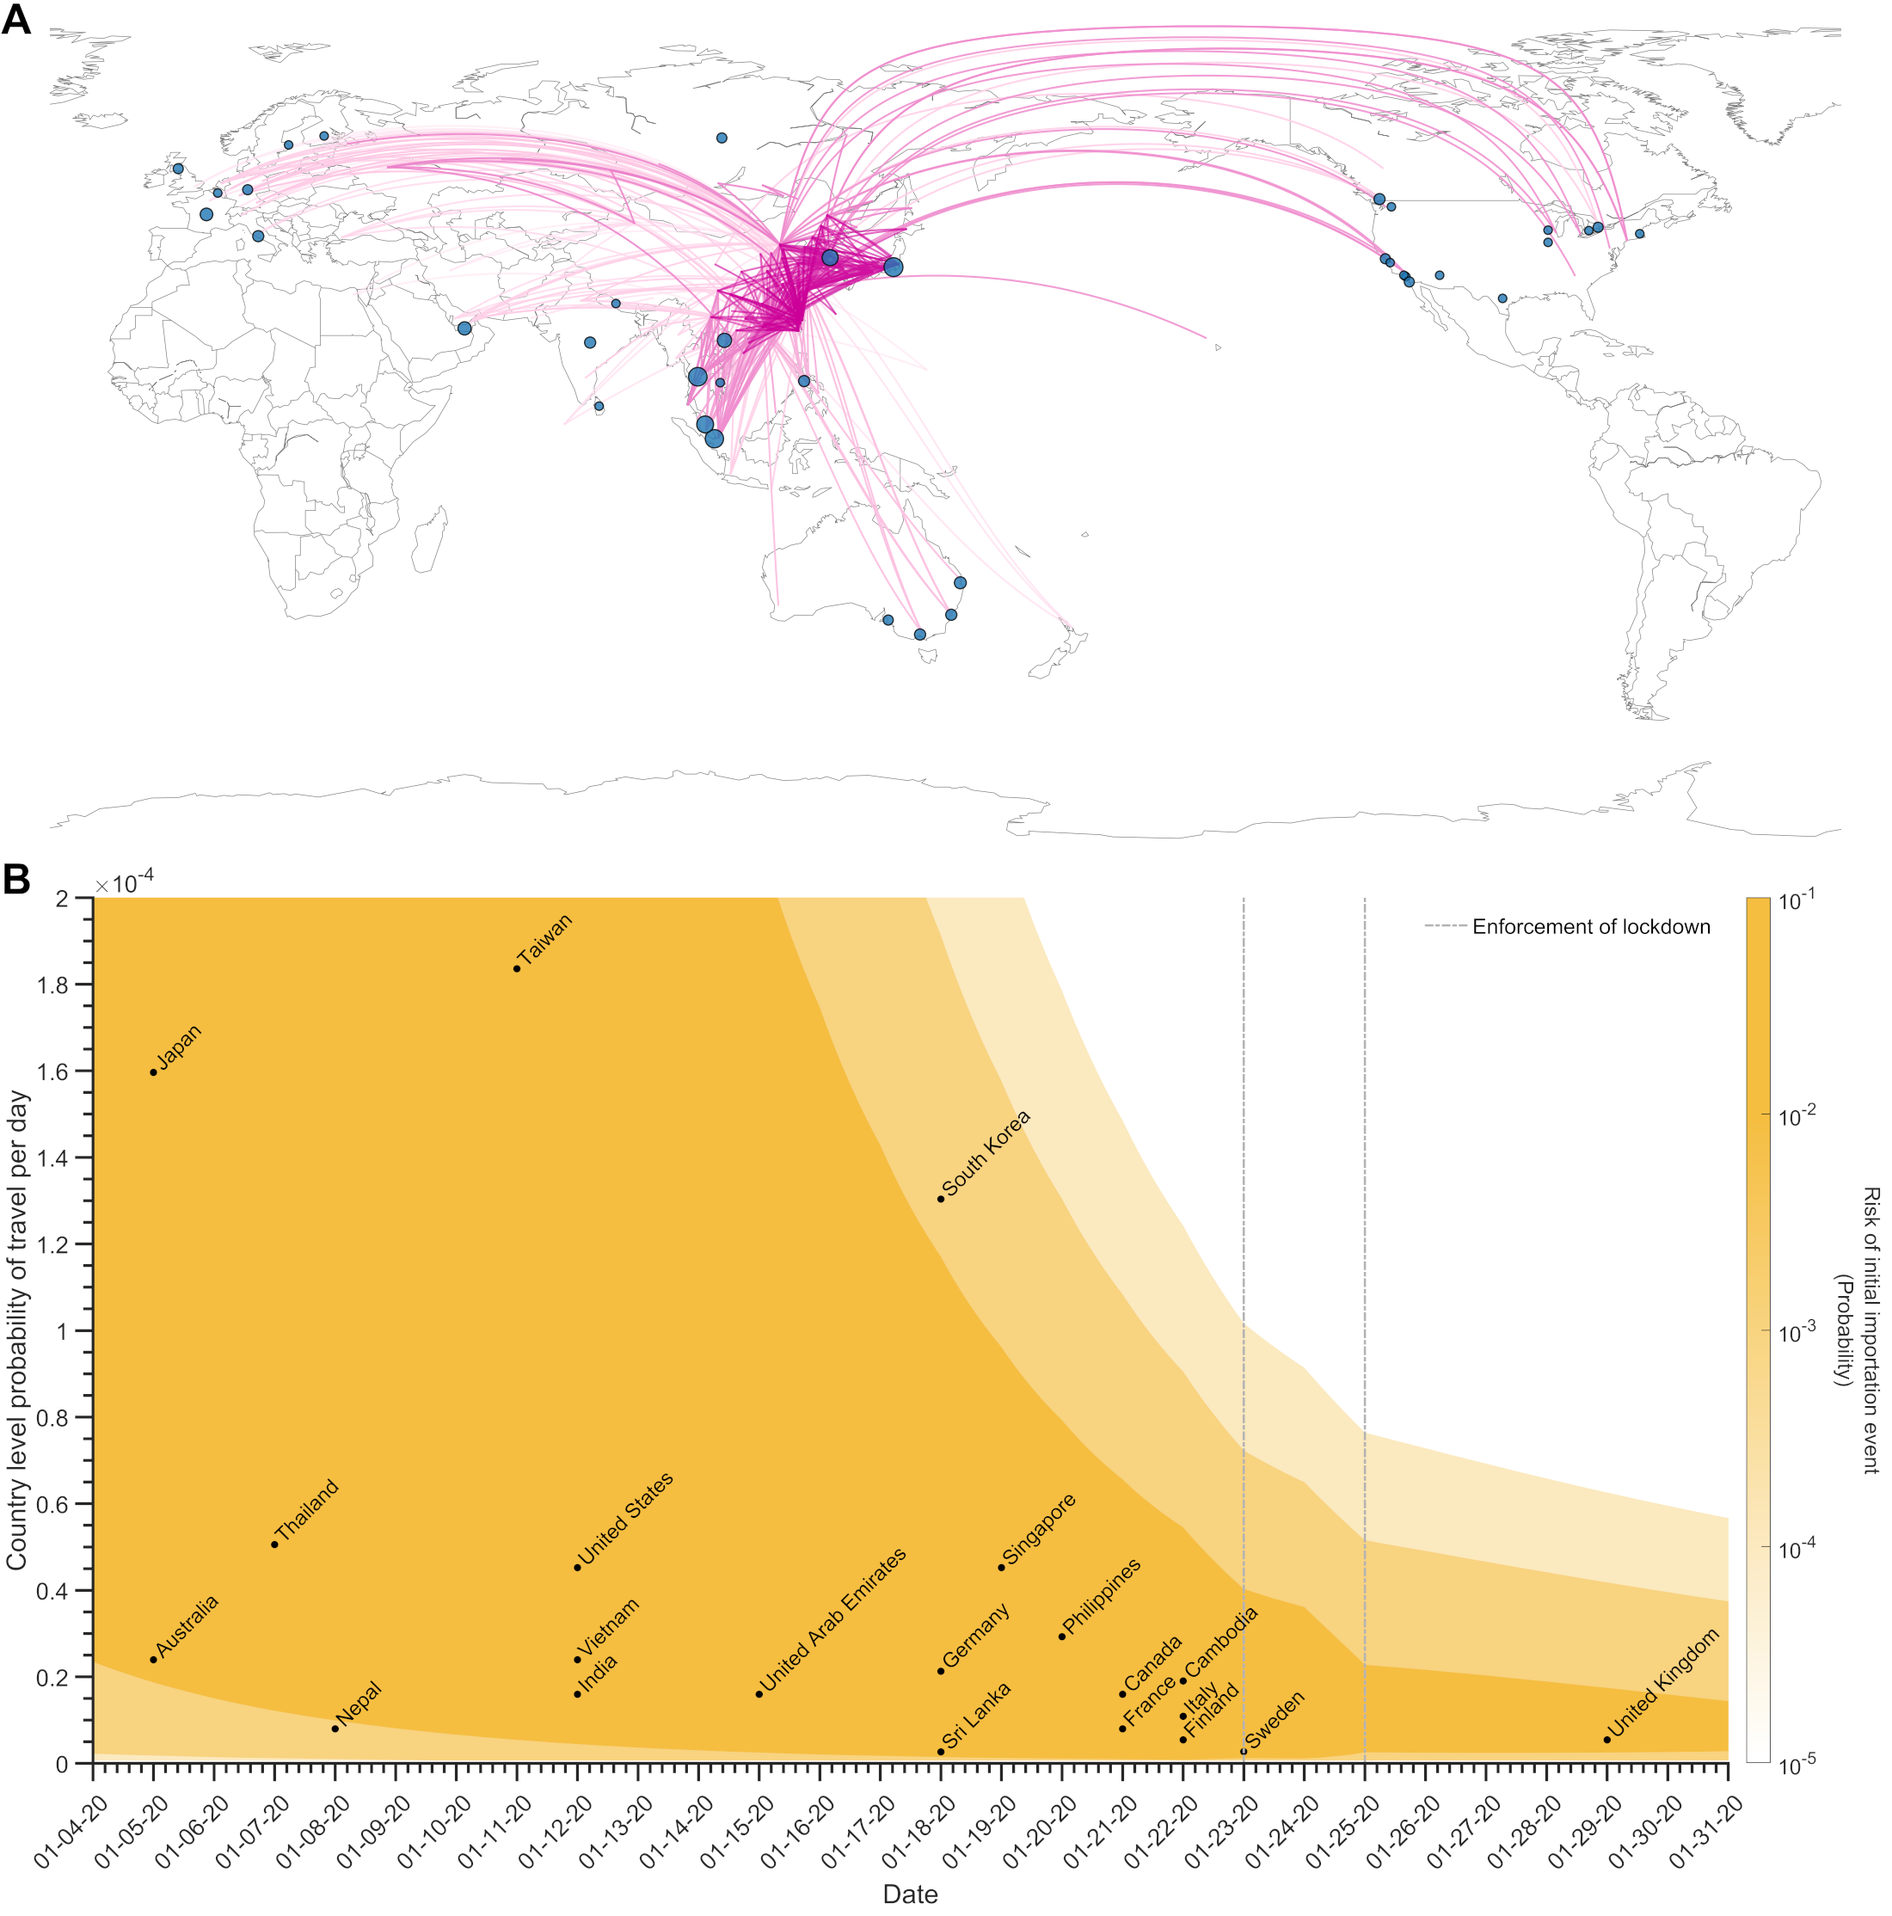
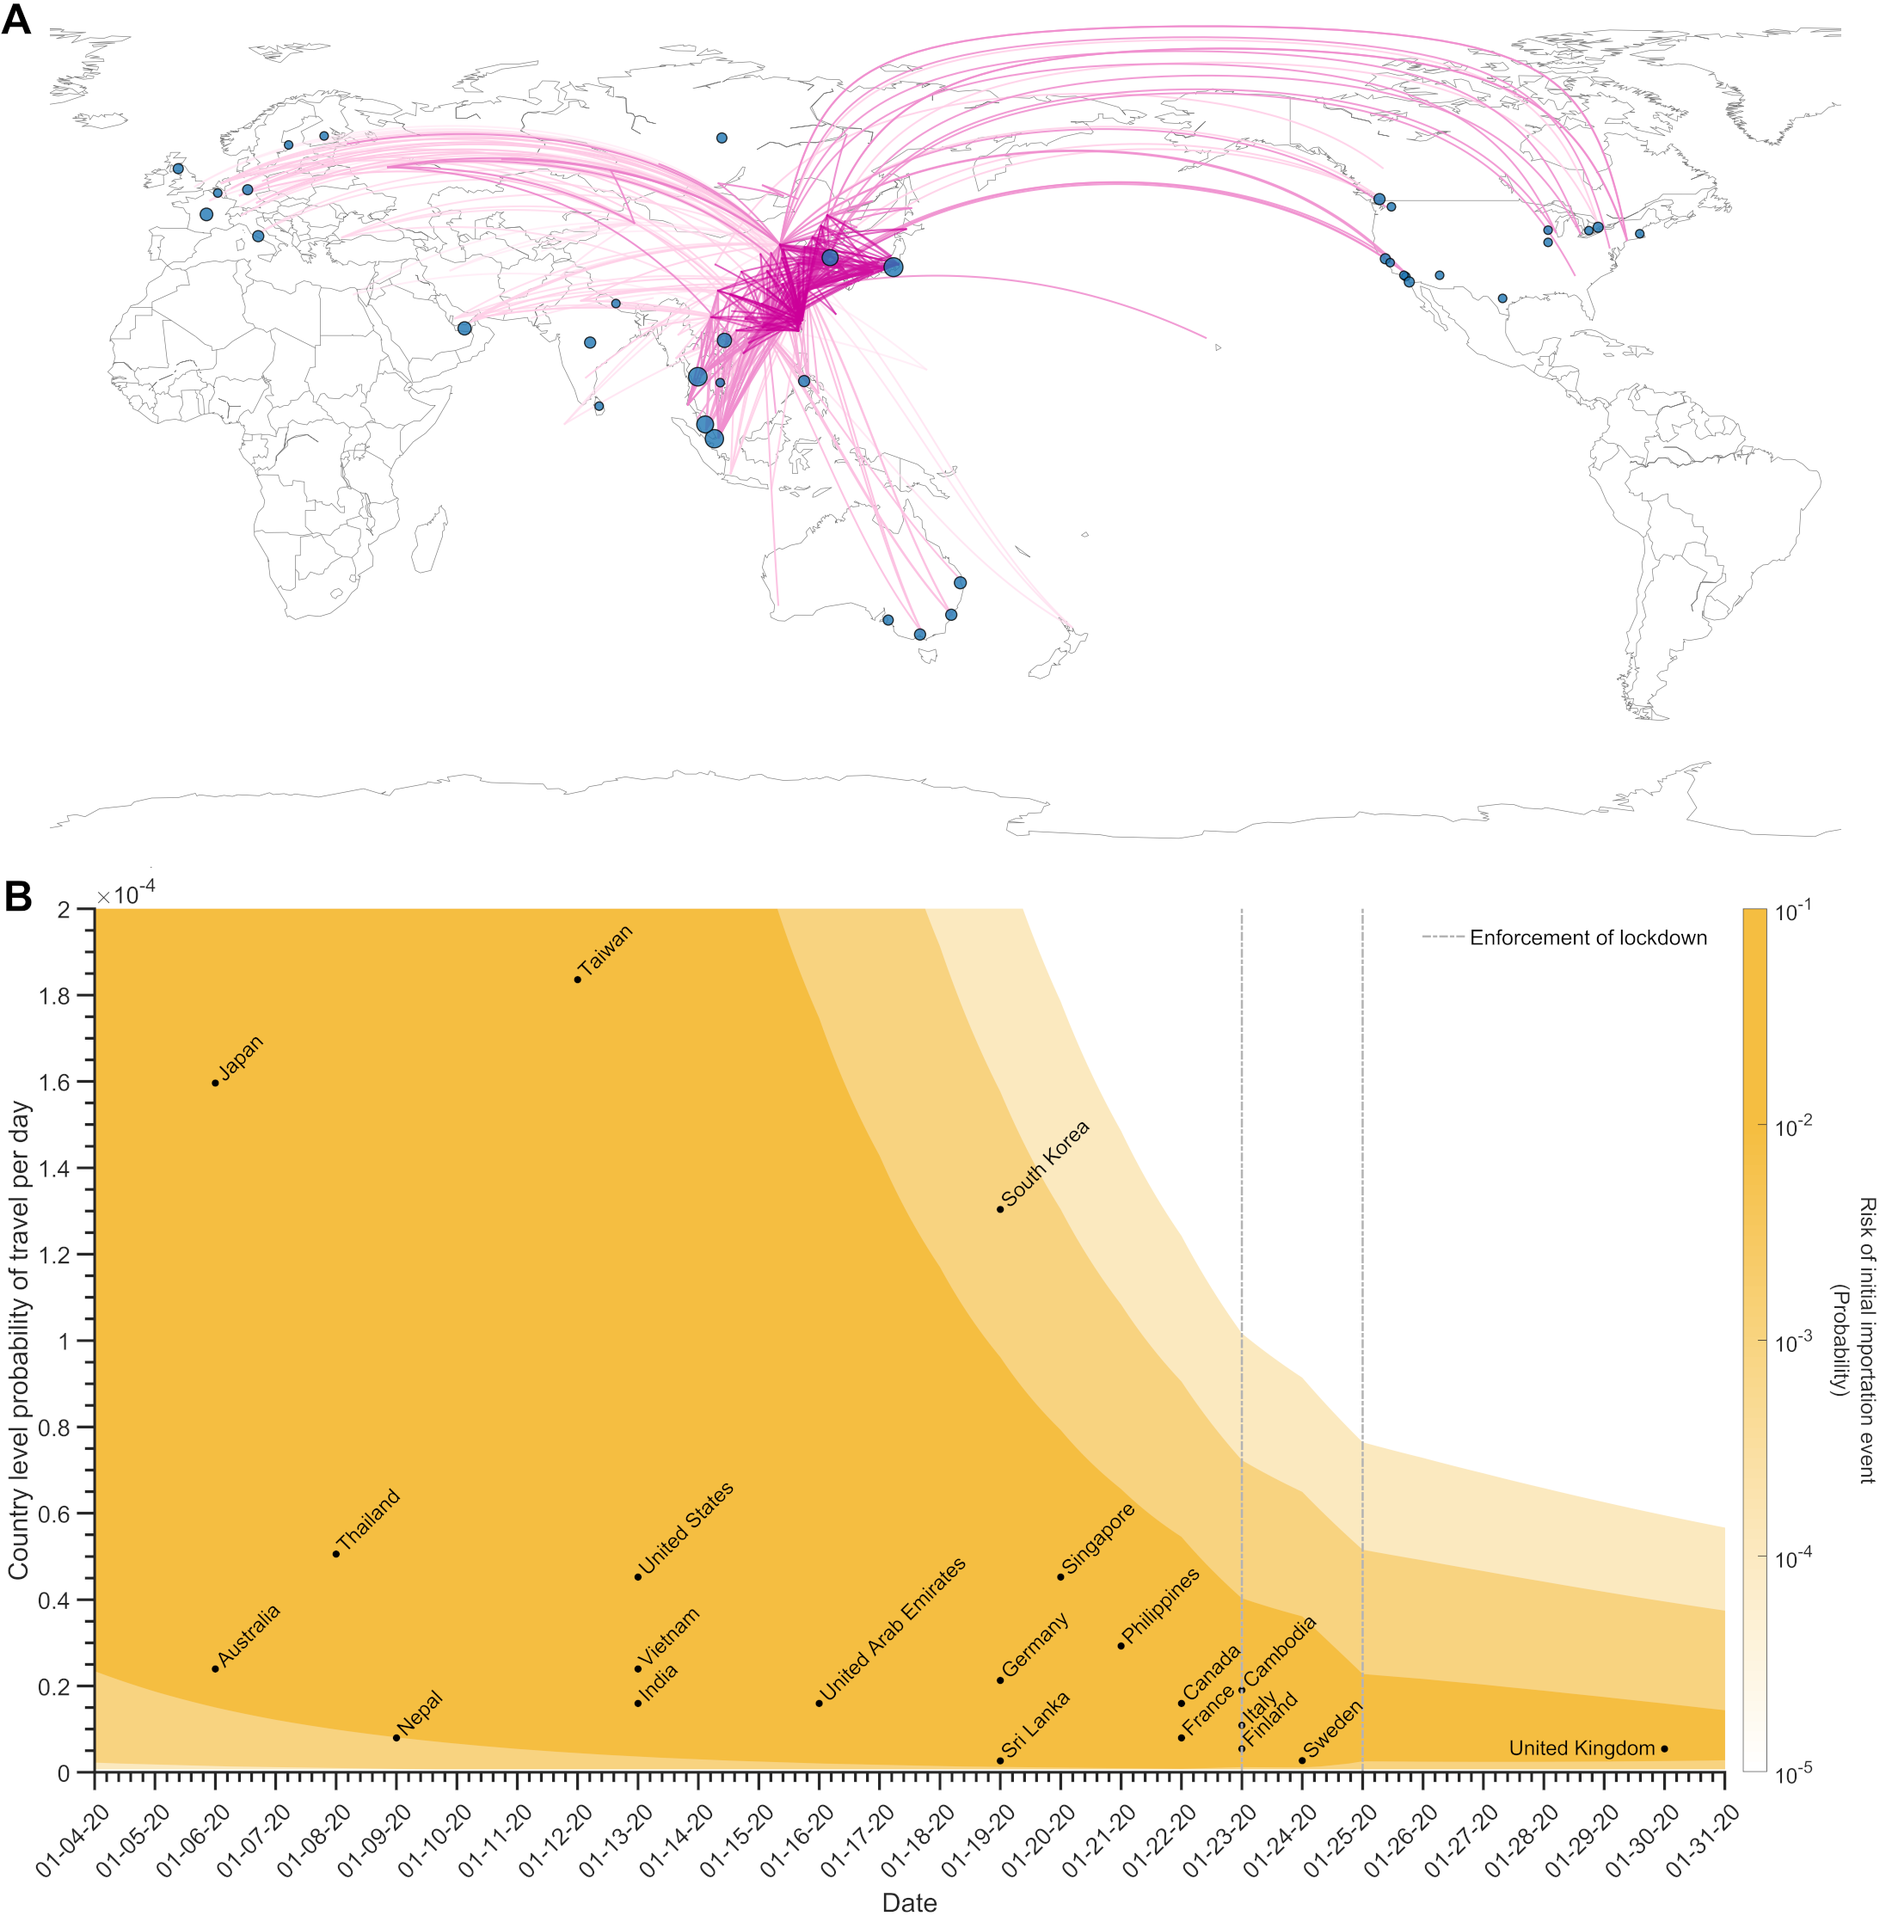
update

diff --git a/Figure2.m b/Figure2.m
@@ -45,14 +45,14 @@ Cor=zeros(9,2);
 for ii=1:length(FC)
     if(FC{ii,2}>=INDX)
         tf = strcmp({FC{ii,1}},{Flight_NW{:,1}});
-        scatter(FC{ii,2}-1,Flight_NW{tf,2}*ptravel,25,'k','filled'); hold on;
-        text((FC{ii,2}-1)+0.06,(Flight_NW{tf,2}*ptravel)+0.0000015,15,{FC{ii,1}},'Fontsize',14,'Rotation',45);
-        Cor(ii,:)=[Flight_NW{tf,2} (FC{ii,2}-1)];
+        scatter(FC{ii,2},Flight_NW{tf,2}*ptravel,25,'k','filled'); hold on;
+        text((FC{ii,2})+0.06,(Flight_NW{tf,2}*ptravel)+0.0000015,15,{FC{ii,1}},'Fontsize',14,'Rotation',45);
+        Cor(ii,:)=[Flight_NW{tf,2} (FC{ii,2})];
     else
         tf = strcmp({FC{ii,1}},{FlightAll{:,1}});
-        scatter(FC{ii,2}-1,FlightAll{tf,2}*ptravel,25,'k','filled'); hold on;
-        text((FC{ii,2}-1)+0.06,(FlightAll{tf,2}*ptravel)+0.0000015,15,{FC{ii,1}},'Fontsize',14,'Rotation',45);
-        Cor(ii,:)=[FlightAll{tf,2} (FC{ii,2}-1)];
+        scatter(FC{ii,2},FlightAll{tf,2}*ptravel,25,'k','filled'); hold on;
+        text((FC{ii,2})+0.06,(FlightAll{tf,2}*ptravel)+0.0000015,15,{FC{ii,1}},'Fontsize',14,'Rotation',45);
+        Cor(ii,:)=[FlightAll{tf,2} (FC{ii,2})];
     end
 end
 pp=plot([INDX INDX],[0 2*10^(-4)],'-.','color',[0.7 0.7 0.7],'LineWidth',1.5);

diff --git a/FigureS4.m b/FigureS4.m
@@ -45,14 +45,14 @@ Cor=zeros(9,2);
 for ii=1:length(FC)
     if(FC{ii,2}>=INDX)
         tf = strcmp({FC{ii,1}},{Flight_NW{:,1}});
-        scatter(FC{ii,2}-1,Flight_NW{tf,2}*ptravel,25,'k','filled'); hold on;
-        text((FC{ii,2}-1)+0.06,(Flight_NW{tf,2}*ptravel)+0.0000015,15,{FC{ii,1}},'Fontsize',14,'Rotation',45);
-        Cor(ii,:)=[Flight_NW{tf,2} (FC{ii,2}-1)];
+        scatter(FC{ii,2},Flight_NW{tf,2}*ptravel,25,'k','filled'); hold on;
+        text((FC{ii,2})+0.06,(Flight_NW{tf,2}*ptravel)+0.0000015,15,{FC{ii,1}},'Fontsize',14,'Rotation',45);
+        Cor(ii,:)=[Flight_NW{tf,2} (FC{ii,2})];
     else
         tf = strcmp({FC{ii,1}},{FlightAll{:,1}});
-        scatter(FC{ii,2}-1,FlightAll{tf,2}*ptravel,25,'k','filled'); hold on;
-        text((FC{ii,2}-1)+0.06,(FlightAll{tf,2}*ptravel)+0.0000015,15,{FC{ii,1}},'Fontsize',14,'Rotation',45);
-        Cor(ii,:)=[FlightAll{tf,2} (FC{ii,2}-1)];
+        scatter(FC{ii,2},FlightAll{tf,2}*ptravel,25,'k','filled'); hold on;
+        text((FC{ii,2})+0.06,(FlightAll{tf,2}*ptravel)+0.0000015,15,{FC{ii,1}},'Fontsize',14,'Rotation',45);
+        Cor(ii,:)=[FlightAll{tf,2} (FC{ii,2})];
     end
 end
 pp=plot([INDX INDX],[0 2*10^(-4)],'-.','color',[0.7 0.7 0.7],'LineWidth',1.5);

diff --git a/OutputProb.m b/OutputProb.m
@@ -87,7 +87,7 @@ VU=sqrt([(minE+1):maxE].^2*PPU'-TU.^2);
 fprintf(['Expected date of first exportation:' datestr(startDateofSim+(T-1),'yyyy-mm-dd') '(95%% CI: ' datestr(startDateofSim+(prctile(TU,2.5)-1),'yyyy-mm-dd') ' to ' datestr(startDateofSim+(prctile(TU,97.5)-1),'yyyy-mm-dd') ') +/- %2.1f (95%% CI: %2.1f - %2.1f) \n'],[V prctile(VU,[2.5 97.5])])
 
 f=find(PP==max(PP));
-
+tt=[(minE+1):maxE];
 lb=prctile(PPU,2.5);
 ub=prctile(PPU,97.5);
 flb=find(lb==max(lb),1);
@@ -225,7 +225,7 @@ VU=sqrt([(minE+1):maxE].^2*PPU'-TU.^2);
 fprintf(['Expected date of first exportation:' datestr(startDateofSim+(T-1),'yyyy-mm-dd') '(95%% CI: ' datestr(startDateofSim+(prctile(TU,2.5)-1),'yyyy-mm-dd') ' to ' datestr(startDateofSim+(prctile(TU,97.5)-1),'yyyy-mm-dd') ') +/- %2.1f (95%% CI: %2.1f - %2.1f) \n'],[V prctile(VU,[2.5 97.5])])
 
 f=find(PP==max(PP));
-
+tt=[(minE+1):maxE];
 lb=prctile(PPU,2.5);
 ub=prctile(PPU,97.5);
 flb=find(lb==max(lb),1);
